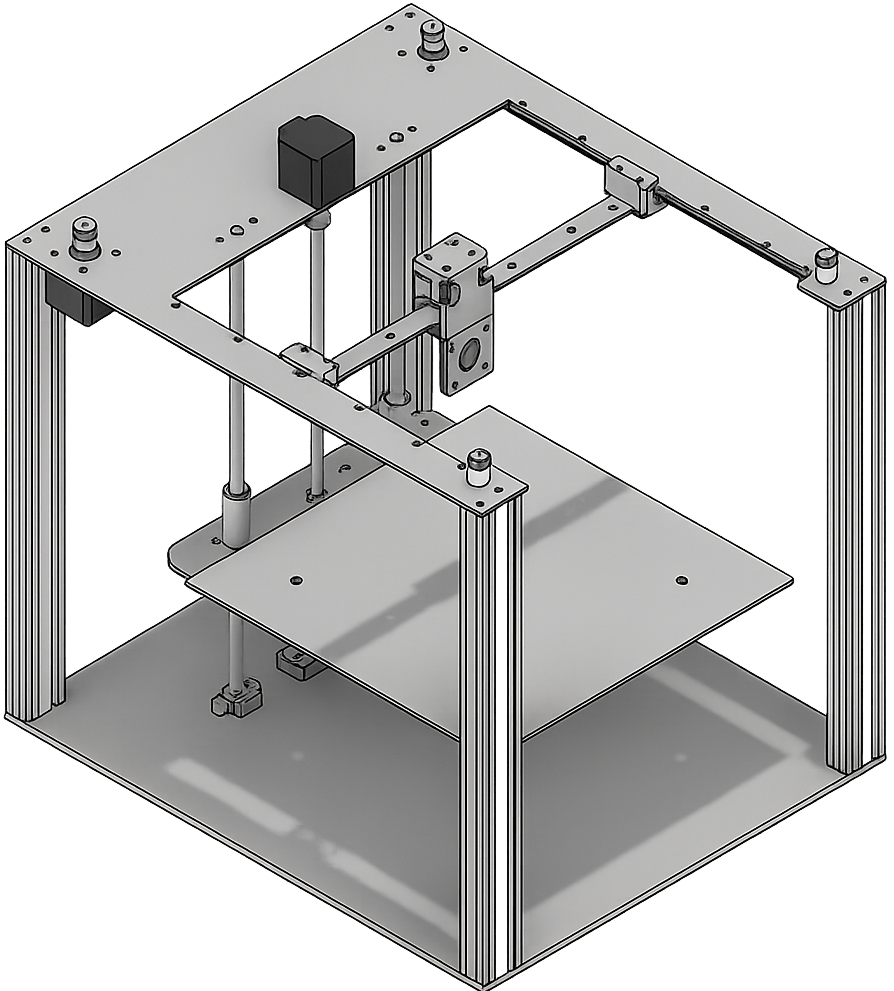
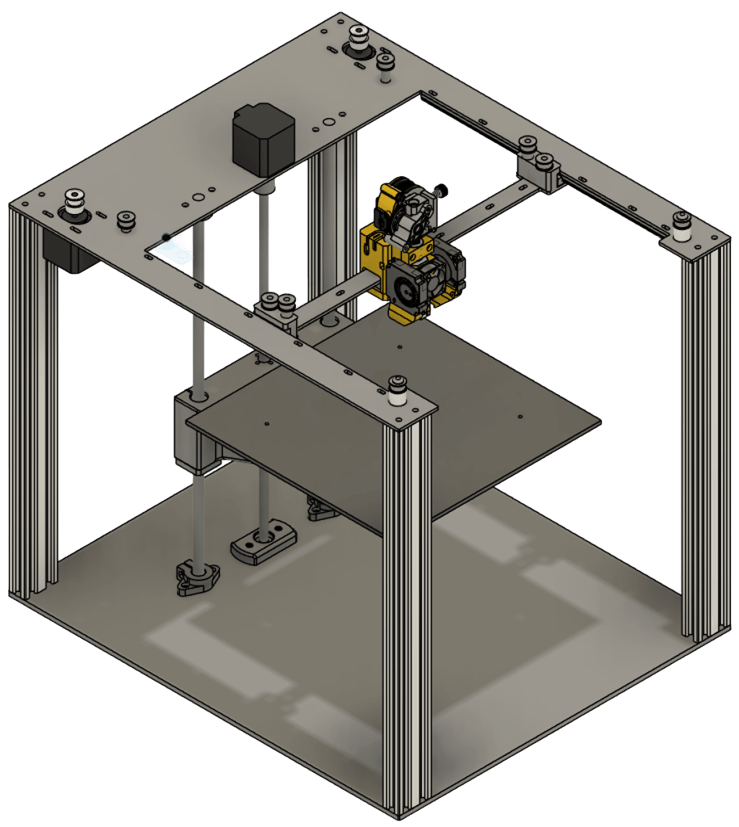
Переход на кор

diff --git a/Chapter3.tex b/Chapter3.tex
@@ -23,20 +23,22 @@
 
 При этом разработка принтера не ограничивается задачами данной работы. Он рассматривается как базовая экспериментальная платформа для последующих исследований и развития функций автоматизированного контроля и управления печатью. Такое решение обеспечивает сбор данных в рамках текущего исследования и расширяемость аппаратной и программной архитектуры в дальнейшем.
 
-В предыдущей главе были определены базовые электронные компоненты. Далее требуется разработать механическую часть принтера. Среди распространённых кинематических схем современных 3-осевых FDM-принтеров можно выделить три типа: картезианскую схему с подвижным столом (bed-slinger), а также портальные ремённые схемы CoreXY и H-Bot.
+В предыдущей главе были определены базовые электронные компоненты принтера. Следующим шагом стал выбор кинематической схемы, так как именно она влияет на характер перемещений, жёсткость конструкции и повторяемость печати. Для экспериментальной установки этот выбор особенно важен: принтер должен не только стабильно печатать, но и обеспечивать предсказуемые условия для наблюдения за процессом и последующего анализа дефектов.
 
-В компоновке bed-slinger стол перемещается по одной из горизонтальных осей, а печатающая головка — по другой. Схема отличается простотой и невысокой стоимостью, однако перемещение массивной платформы увеличивает инерцию системы, что ограничивает рабочие ускорения и может влиять на стабильность печати при крупных деталях. Кроме того, открытая конструкция затрудняет создание замкнутой термокамеры для работы с высокотемпературными материалами.
+На этапе выбора рассматривались три распространённые схемы: схема с подвижным столом (bed-slinger), H-Bot и CoreXY. Bed-slinger схема проста по конструкции и распространена, но при её использовании стол перемещается по одной из горизонтальных осей. Из-за этого возрастает инерция подвижной системы, особенно при печати крупных моделей. На практике это ограничивает рабочие ускорения и может отрицательно сказываться на стабильности процесса. Кроме того, при перемещении стола положение модели в кадре постоянно меняется, что не очень удобно для системы визуального контроля.
 
-CoreXY и H-Bot относятся к портальным ремённым схемам, в которых перемещение по осям X–Y обеспечивается системой ремней, а платформа движется только по оси Z. Такая компоновка уменьшает подвижную массу по сравнению с bed-slinger и сохраняет ортогональную систему координат. В CoreXY используются два раздельных ремня, тогда как в H-Bot применяется одна замкнутая петля. Это различие связано с топологией ременной передачи и распределением усилий в портале. Схематическое представление кинематической компоновки H-Bot приведено на рисунке~\ref{fig:hbot_scheme}.
+Схемы H-Bot и CoreXY относятся к портальным ремённым системам. В таких конструкциях стол обычно перемещается только по оси Z, а движение по осям X и Y обеспечивается ремённой передачей. Это уменьшает массу подвижных узлов и позволяет сделать перемещение печатающей головки более стабильным. Для задач данной работы такой подход предпочтителен, поскольку он лучше подходит для получения воспроизводимых результатов печати и более удобен при регистрации изображений с камеры.
+
+Несмотря на внешнее сходство, H-Bot и CoreXY отличаются по принципу организации ремённой передачи. В схеме H-Bot используется одна ремённая петля, тогда как в CoreXY движение формируется двумя независимыми ремнями. Такая компоновка обеспечивает более равномерное распределение усилий в механизме и снижает влияние паразитных перекосов при перемещении портала. На практике это делает поведение системы более предсказуемым, особенно при рабочих ускорениях и частых изменениях направления движения.
+
+По этой причине в работе была выбрана кинематика CoreXY с двумя ремнями. Такое решение позволяет сохранить небольшую массу подвижной системы, обеспечить достаточ ную жёсткость портала и получить более устойчивое и повторяемое перемещение печатающей головки. По сравнению с H-Bot эта схема несколько сложнее в настройке ремённой трассировки, однако для экспериментального принтера это оправдано. В данном случае более важны стабильность механики, повторяемость печати и возможность получать сопоставимые данные в серии экспериментов. Схематическое представление кинематической компоновки CoreXY приведено на рисунке~\ref{fig:corexy_scheme}.
 
 \begin{figure}[h!]
 \begin{center}
-\includegraphics[width=0.45\hsize]{fig/hbot_scheme.jpg}
-\caption{Схематическое представление кинематической компоновки H-Bot}\label{fig:hbot_scheme}
+\includegraphics[width=0.5\hsize]{fig/corexy.png}
+\caption{Схематическое представление кинематической компоновки CoreXY}\label{fig:corexy_scheme}
 \end{center}
 \end{figure}
-
-В работе выбрана схема H-Bot с линейными рельсовыми направляющими. Использование рельсовых направляющих повышает жёсткость узла перемещения и снижает влияние паразитных моментов при рабочих ускорениях. Более простая ремённая трассировка по сравнению с CoreXY упрощает сборку и настройку, что важно для экспериментальной платформы и обеспечения воспроизводимости результатов.
 
 Выбор механических компонентов осуществлялся с учётом практического опыта эксплуатации аналогичных узлов в FDM-принтерах. Приоритет отдавался решениям, зарекомендовавшим себя с точки зрения надёжности и стабильности работы в длительном режиме. Такой подход позволил снизить вероятность возникновения типовых механических проблем уже на этапе проектирования. В результате повысилась воспроизводимость результатов экспериментов.
 
@@ -50,16 +52,26 @@ CoreXY и H-Bot относятся к портальным ремённым сх
 
 В ремённой системе применён зубчатый ремень GT2 шириной 6~мм. Использование ремня промышленного исполнения обеспечивает стабильную передачу усилия и ограничивает растяжение в пределах рабочих нагрузок.
 
-Печатающая головка оснащена экструдером с прямой подачей материала. Такая схема уменьшает длину подачи и позволяет работать с гибкими и эластичными филаментами без дополнительных направляющих каналов. В качестве приводов используются шаговые двигатели формата NEMA 17 в сочетании с драйверами TMC2209. Это обеспечивает плавное перемещение и снижает акустический шум.
-
-Общий вид экспериментальной конструкции 3D-принтера представлен на рисунке~\ref{fig:printer_frame_cad}.
+Для обеспечения качественной печати необходимо было спроектировать печатающую голову принтера. На этапе постановки задачи были определены ключевые требования: минимальная масса для снижения инерции подвижной системы, прямая подача материала для стабильной работы с гибкими филаментами, а также возможность дальнейшей установки датчиков, концевых выключателей и плат расширения. В результате была разработана и изготовлена печатающая голова, закрепляемая на каретке. Конструкция сочетает облегченные печатные элементы и компактный привод, включает крепление платы управления узлами головы и предусматривает установку акселерометра ADXL345 для мониторинга вибраций. Внешний вид печатающей головы представлен на рисунке~\ref{fig:extruder_cad}.
 
 \begin{figure}[h!]
 \begin{center}
-\includegraphics[width=0.45\hsize]{fig/printer_frame_cad.png}
-\caption{CAD-модель экспериментальной конструкции 3D-принтера}\label{fig:printer_frame_cad}
+\begin{minipage}[t]{0.32\linewidth}
+\centering
+\includegraphics[width=\linewidth]{fig/pg_view_iso.png}
+\end{minipage}\hfill
+\begin{minipage}[t]{0.32\linewidth}
+\centering
+\includegraphics[width=\linewidth]{fig/pg_view_front_v2.png}
+\end{minipage}\hfill
+\begin{minipage}[t]{0.32\linewidth}
+\centering
+\includegraphics[width=\linewidth]{fig/pg_view_side.png}
+\end{minipage}
+\caption{Внешний вид печатающей головы: изометрический, фронтальный и боковой виды}\label{fig:extruder_cad}
 \end{center}
 \end{figure}
+
 
 \section{Проектирование электрической подсистемы питания, управления и коммутации}
 
@@ -109,7 +121,7 @@ k_{\text{стол}} \cdot P_{\text{стол}} + P_{\text{хотэнд}} + \sum P
 \end{equation}
 \end{samepage}
 
-\noindent\textit{где \(I_{\text{БП}}^{\text{расч}}\)~-- расчетный ток блока питания, А; \(P_{\text{экв}}\)~-- эквивалентная расчетная мощность нагрузки, Вт; \(k_{\text{зап}}\)~-- коэффициент запаса; \(k_{\text{стол}}\)~-- коэффициент средней загрузки нагревателя стола; \(P_{\text{стол}}\)~-- номинальная мощность стола; \(P_{\text{хотэнд}}\)~-- мощность нагревателя хотэнда; \(\sum P_{\text{прочие}}\)~-- суммарная мощность остальных потребителей; \(U\)~-- напряжение питания.}
+\noindent где \(I_{\text{БП}}^{\text{расч}}\)~-- расчетный ток блока питания, А; \(P_{\text{экв}}\)~-- эквивалентная расчетная мощность нагрузки, Вт; \(k_{\text{зап}}\)~-- коэффициент запаса; \(k_{\text{стол}}\)~-- коэффициент средней загрузки нагревателя стола; \(P_{\text{стол}}\)~-- номинальная мощность стола; \(P_{\text{хотэнд}}\)~-- мощность нагревателя хотэнда; \(\sum P_{\text{прочие}}\)~-- суммарная мощность остальных потребителей; \(U\)~-- напряжение питания.
 
 Коэффициент \(k_{\text{стол}}\) принят как эквивалент средней загрузки нагревателя стола в режиме поддержания температуры. В расчетах рабочего режима после разогрева принято \(k_{\text{стол}}=0{,}50\), что соответствует средней мощности стола \(130~\text{Вт}\) при номинале \(260~\text{Вт}\). На этапе разогрева принимается \(k_{\text{стол}}=1{,}00\). Этот режим кратковременный и  во время него питание остальных элементов минимально.
 
